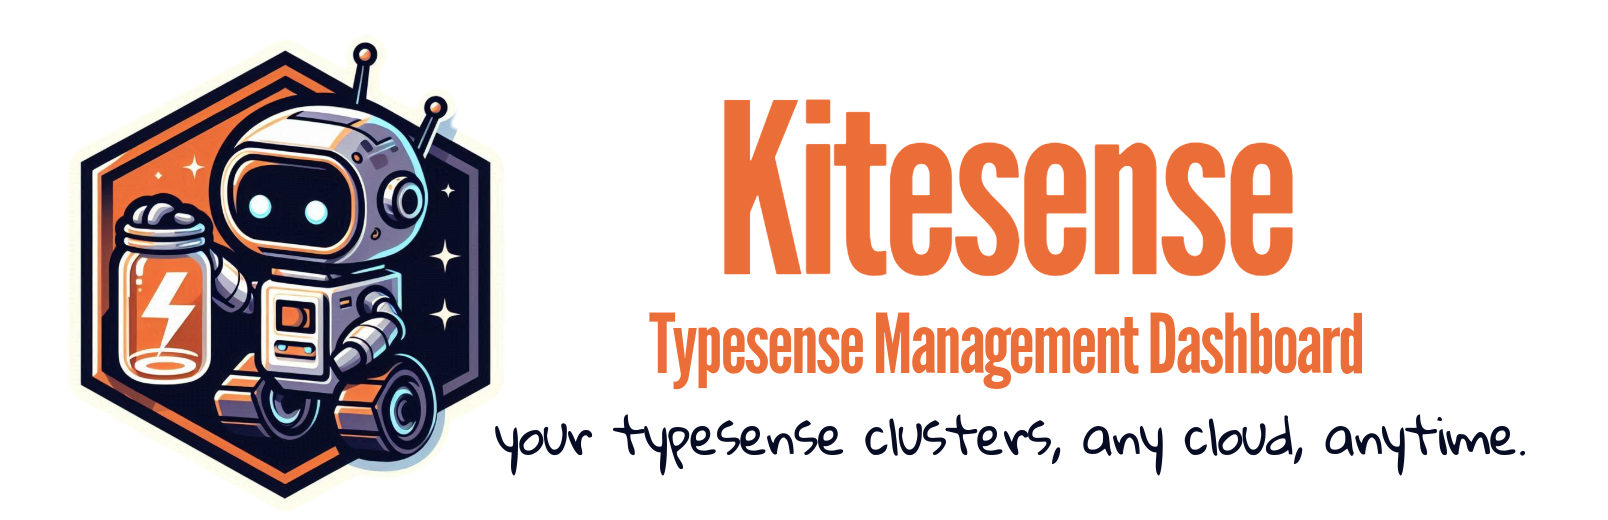
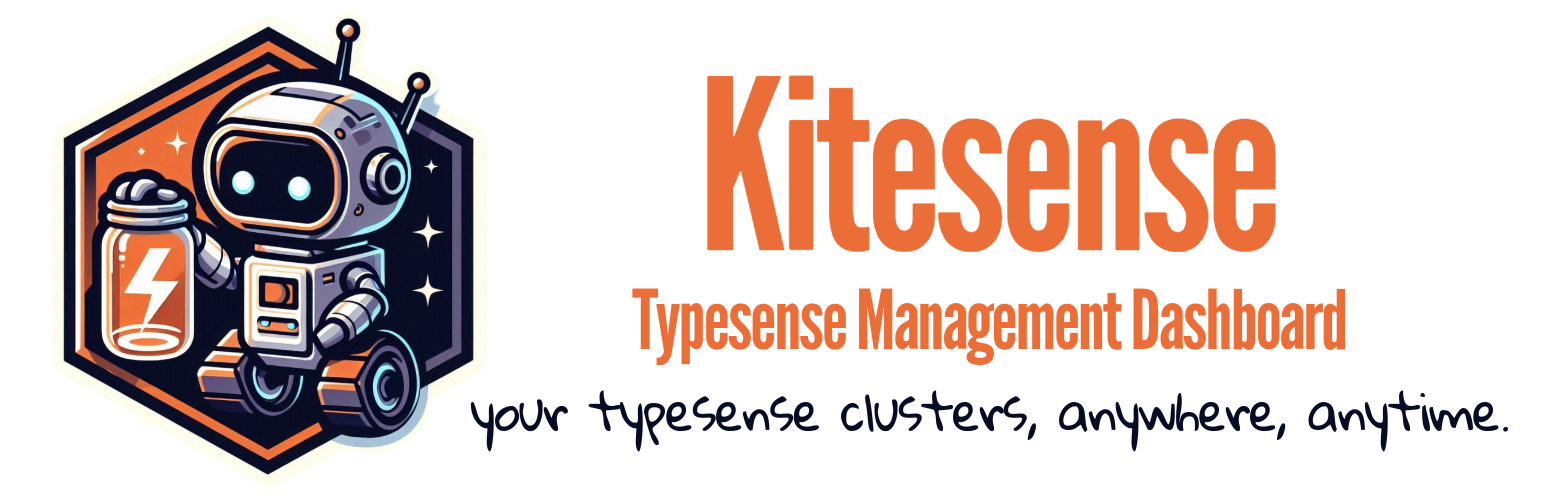
changed the pun #16

Changed region(s): [[0.0307, 0.0299, 0.984, 0.9562], [0.4305, 0.1494, 0.8302, 0.5378], [0.3997, 0.5677, 0.861, 0.747]]

diff --git a/README.md b/README.md
@@ -13,7 +13,7 @@
 
 </div>
 
-**Kitesense** is a dedicated control center for running and manage Typesense on any Kubernetes cluster. It lets you launch and operate Typesense deployments anywhere, track their health, and coordinate multiple environments from a single place. Designed for clarity and speed, Kitesense streamlines the entire lifecycle of your search infrastructure. Your Typesense clusters, any cloud, anytime.
+**Kitesense** is a dedicated control center for running and manage Typesense on any Kubernetes cluster. It lets you launch and operate Typesense deployments anywhere, track their health, and coordinate multiple environments from a single place. Designed for clarity and speed, Kitesense streamlines the entire lifecycle of your search infrastructure. Your Typesense clusters, anywhere, anytime. Run them how you like them.
 
 > [!IMPORTANT]
 > Kitesense is a repurposed derivative of the original [Kite](https://github.com/zxh326/kite) project. All credit for the foundation and core design goes to the Kite maintainers.
